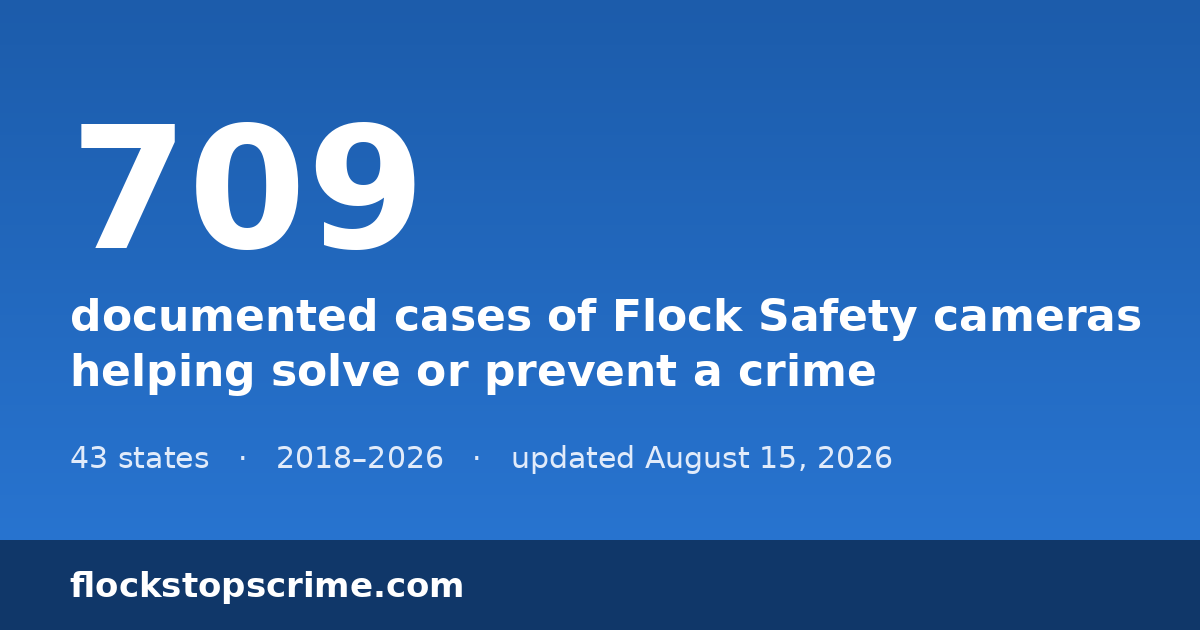
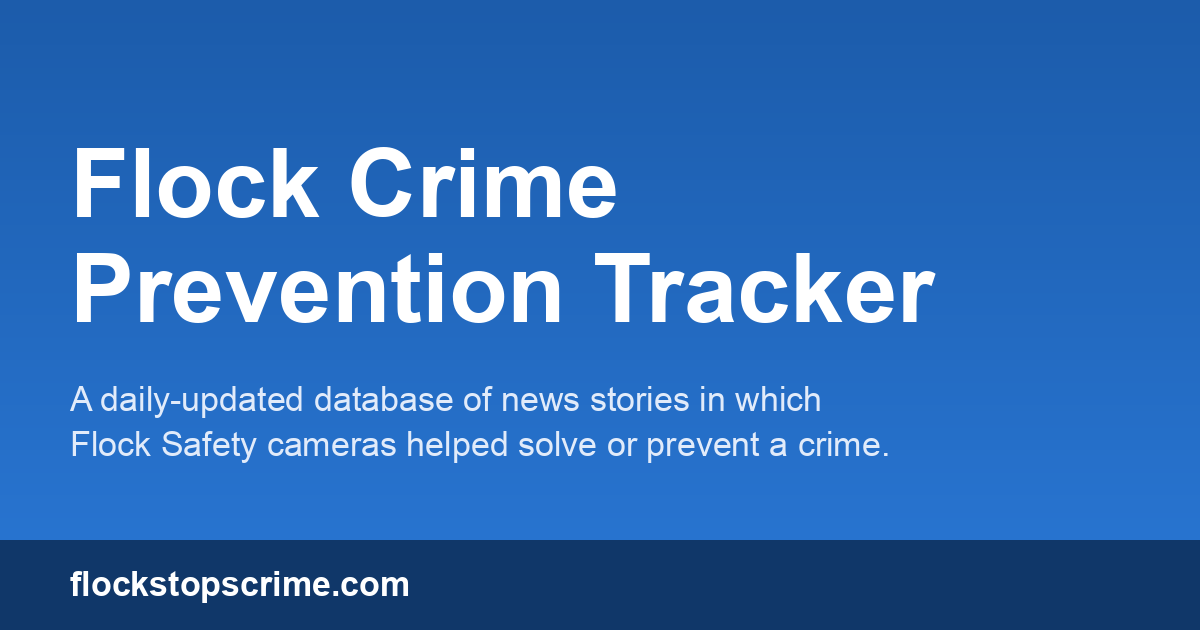
Rebuild site after rebase

Changed region(s): [[0.0617, 0.181, 0.9558, 0.754], [0.0617, 0.9048, 0.4008, 0.9651]]

diff --git a/site/index.html b/site/index.html
@@ -8,12 +8,12 @@
 <meta property="og:title" content="Flock Crime Prevention Tracker">
 <meta property="og:description" content="A daily-updated, independently sourced database of Flock Safety cameras helping solve or prevent crimes.">
 <meta property="og:url" content="https://flockstopscrime.com/">
-<meta property="og:image" content="https://flockstopscrime.com/og-image.png?v=20260815709">
+<meta property="og:image" content="https://flockstopscrime.com/og-image.png">
 <meta property="og:image:width" content="1200">
 <meta property="og:image:height" content="630">
 <meta property="og:type" content="website">
 <meta name="twitter:card" content="summary_large_image">
-<meta name="twitter:image" content="https://flockstopscrime.com/og-image.png?v=20260815709">
+<meta name="twitter:image" content="https://flockstopscrime.com/og-image.png">
 <style>
   :root {
     --ground: #f6f8fb;

diff --git a/pipeline/make_og_image.py b/pipeline/make_og_image.py
@@ -4,11 +4,9 @@ Called from build_site.py; regenerated on every build so link previews on
 social platforms always show fresh numbers.
 """
 
-from datetime import date
 from pathlib import Path
 
 from config import SITE_DIR
-from store import load_stories
 
 FONT_PATHS = [
     "/usr/share/fonts/truetype/dejavu/DejaVuSans-Bold.ttf",
@@ -31,23 +29,17 @@ def _font(size, bold=True):
 
 
 def make_og_image() -> None:
+    """Static branded card — no counts or dates, so cached social previews
+    can never go stale or contradict the live site."""
     try:
         from PIL import Image, ImageDraw
     except ImportError:
         print("Pillow unavailable; skipping og-image")
         return
 
-    stories = load_stories()
-    n = len(stories)
-    states = len({r["state"] for r in stories if r.get("state")})
-    years = sorted({(r.get("incident_date") or r.get("date_added") or "")[:4]
-                    for r in stories if (r.get("incident_date") or r.get("date_added"))})
-    span = f"{years[0]}–{years[-1]}" if years else ""
-
     W, H = 1200, 630
     img = Image.new("RGB", (W, H))
     draw = ImageDraw.Draw(img)
-    # diagonal-ish gradient #1c5cab -> #2a78d6
     c1, c2 = (28, 92, 171), (42, 120, 214)
     for y in range(H):
         t = y / H
@@ -55,22 +47,19 @@ def make_og_image() -> None:
                   fill=tuple(int(a + (b - a) * t) for a, b in zip(c1, c2)))
 
     white = (255, 255, 255)
-    draw.text((70, 90), str(n), font=_font(170), fill=white)
-    label = "documented cases of Flock Safety cameras"
-    label2 = "helping solve or prevent a crime"
-    draw.text((70, 290), label, font=_font(44), fill=white)
-    draw.text((70, 345), label2, font=_font(44), fill=white)
+    draw.text((70, 130), "Flock Crime", font=_font(96), fill=white)
+    draw.text((70, 235), "Prevention Tracker", font=_font(96), fill=white)
+    draw.text((70, 380), "A daily-updated database of news stories in which",
+              font=_font(34, bold=False), fill=(225, 235, 250))
+    draw.text((70, 425), "Flock Safety cameras helped solve or prevent a crime.",
+              font=_font(34, bold=False), fill=(225, 235, 250))
 
-    sub = f"{states} states   ·   {span}   ·   updated {date.today().strftime('%B %d, %Y')}"
-    draw.text((70, 440), sub, font=_font(30, bold=False), fill=(225, 235, 250))
-
-    # footer bar
     draw.rectangle([(0, 540), (W, H)], fill=(16, 55, 105))
     draw.text((70, 565), "flockstopscrime.com", font=_font(34), fill=white)
 
     SITE_DIR.mkdir(parents=True, exist_ok=True)
     img.save(SITE_DIR / "og-image.png")
-    print(f"og-image.png rendered ({n} cases)")
+    print("og-image.png rendered (static)")
 
 
 if __name__ == "__main__":

diff --git a/pipeline/build_site.py b/pipeline/build_site.py
@@ -22,12 +22,12 @@ TEMPLATE = r"""<!DOCTYPE html>
 <meta property="og:title" content="Flock Crime Prevention Tracker">
 <meta property="og:description" content="A daily-updated, independently sourced database of Flock Safety cameras helping solve or prevent crimes.">
 <meta property="og:url" content="https://flockstopscrime.com/">
-<meta property="og:image" content="https://flockstopscrime.com/og-image.png?v=__BUILD__">
+<meta property="og:image" content="https://flockstopscrime.com/og-image.png">
 <meta property="og:image:width" content="1200">
 <meta property="og:image:height" content="630">
 <meta property="og:type" content="website">
 <meta name="twitter:card" content="summary_large_image">
-<meta name="twitter:image" content="https://flockstopscrime.com/og-image.png?v=__BUILD__">
+<meta name="twitter:image" content="https://flockstopscrime.com/og-image.png">
 <style>
   :root {
     --ground: #f6f8fb;
@@ -610,7 +610,6 @@ def build_site() -> None:
             .replace("__DATA_JSON__", payload)
             .replace("__COURT_JSON__", court_payload)
             .replace("__USMAP__", _load_usmap())
-            .replace("__BUILD__", date.today().strftime("%Y%m%d") + str(len(stories)))
             .replace("__UPDATED__", date.today().strftime("%B %-d, %Y")))
     (SITE_DIR / "index.html").write_text(html, encoding="utf-8")
 
